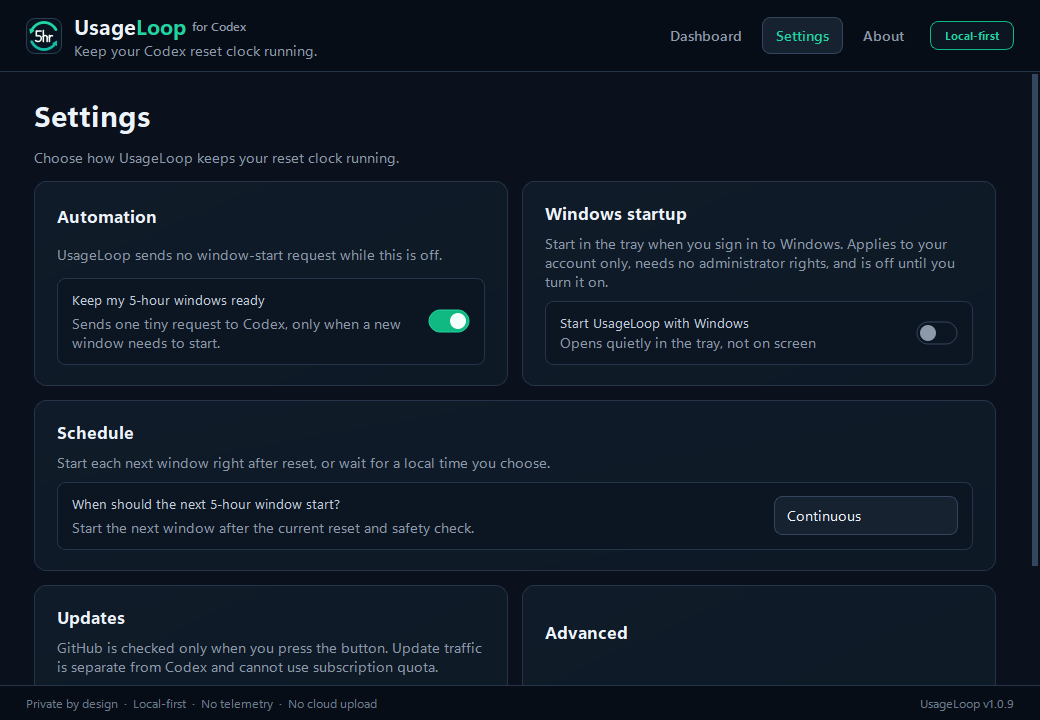
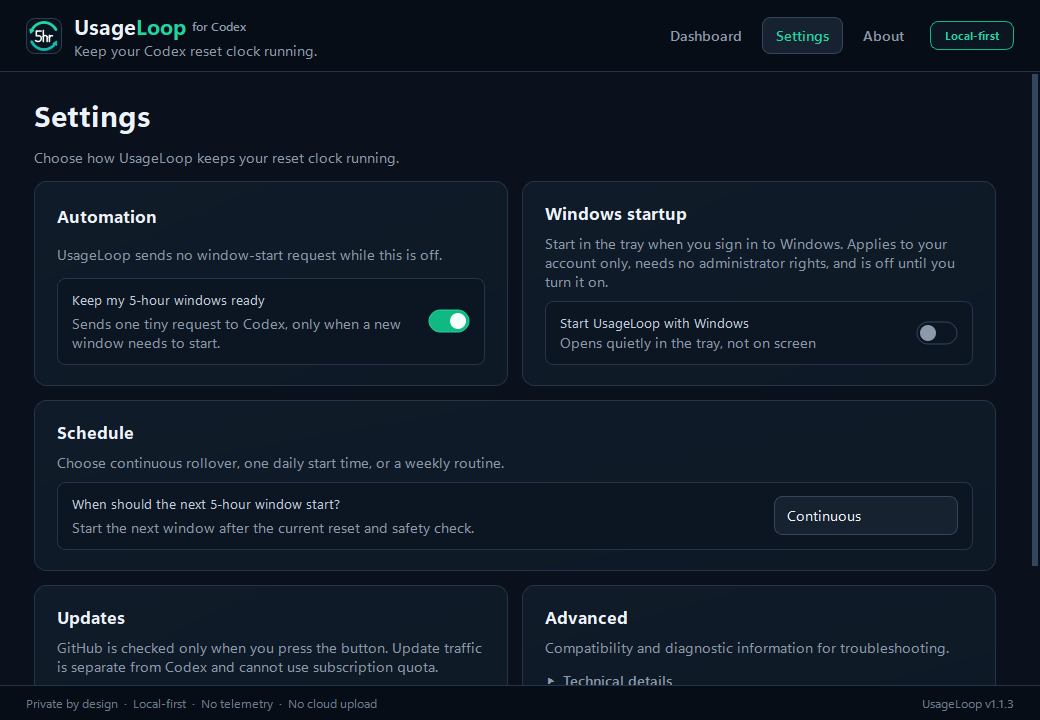
Present the Weekly routine on the public surfaces
The README and site still described only immediate rollover and one daily
start time, three releases after Weekly routine shipped. A stranger had no
way to learn the feature existed before being asked to install an unsigned
app.

Reframes the pitch around planning when the Codex day starts, adds a Weekly
routine section to both surfaces with a real 1.1.3 screenshot of the weekday
and weekend groups, the per-day overrides, and the Next routine card, and
corrects the schedule wording to name all three modes.

Site changes drop the "quota tracker" metadata framing, add the concrete
payoff example that only the README carried, remove a duplicate dashboard
section, and keep Download reachable in the mobile header. Screenshots are
regenerated from the current build through the existing capture script.

Two tests now pin the schedule modes and the site content so this cannot go
stale again.

Changed region(s): [[0.5231, 0.8556, 0.9231, 0.9472], [0.0615, 0.6417, 0.5231, 0.6722], [0.8923, 0.9778, 0.9538, 1.0]]

diff --git a/docs/index.html b/docs/index.html
@@ -3,15 +3,15 @@
 <head>
   <meta charset="utf-8">
   <meta name="viewport" content="width=device-width, initial-scale=1">
-  <title>UsageLoop for Codex | Windows quota tracker</title>
-  <meta name="description" content="UsageLoop is a local-first Windows app that tracks Codex 5-hour and weekly limits and can start the normal next window while you are away.">
+  <title>UsageLoop for Codex | Plan when your Codex day starts</title>
+  <meta name="description" content="UsageLoop is a local-first Windows app that starts your next Codex 5-hour window on a schedule you choose, including separate weekday and weekend times. It does not add quota or bypass limits.">
   <link rel="canonical" href="https://benthompsondev.github.io/usageloop/">
   <meta name="theme-color" content="#08131f">
 
   <meta property="og:type" content="website">
   <meta property="og:site_name" content="UsageLoop">
   <meta property="og:title" content="UsageLoop for Codex">
-  <meta property="og:description" content="Keep your Codex 5-hour reset clock moving while you are away. Local-first for Windows, with no API key or telemetry.">
+  <meta property="og:description" content="Plan when your Codex day starts. Set weekday and weekend first-start times, keep windows rolling, and pause overnight. Local-first for Windows, no API key or telemetry.">
   <meta property="og:url" content="https://benthompsondev.github.io/usageloop/">
   <meta property="og:image" content="https://benthompsondev.github.io/usageloop/screenshots/dashboard-1280x720.png">
   <meta property="og:image:width" content="1280">
@@ -19,7 +19,7 @@
   <meta property="og:image:alt" content="UsageLoop dashboard showing a running Codex 5-hour window, weekly usage, and the next scheduled action">
   <meta name="twitter:card" content="summary_large_image">
   <meta name="twitter:title" content="UsageLoop for Codex">
-  <meta name="twitter:description" content="A local-first Codex quota tracker for Windows. No API key, telemetry, or scraping.">
+  <meta name="twitter:description" content="Plan when your Codex day starts. Weekday and weekend start times, rolling windows, overnight pause. Local-first, no API key or telemetry.">
   <meta name="twitter:image" content="https://benthompsondev.github.io/usageloop/screenshots/dashboard-1280x720.png">
 
   <link rel="icon" href="favicon.ico" sizes="any">
@@ -31,7 +31,7 @@
     "@type": "SoftwareApplication",
     "name": "UsageLoop",
     "alternateName": "UsageLoop for Codex",
-    "description": "A local-first Windows app that tracks Codex 5-hour and weekly limits and can start the normal next window while you are away.",
+    "description": "A local-first Windows app that starts your next Codex 5-hour window on a schedule you choose, including separate weekday and weekend first-start times, with rolling daytime windows and an overnight pause. It does not add quota or bypass limits.",
     "applicationCategory": "UtilitiesApplication",
     "operatingSystem": "Windows",
     "isAccessibleForFree": true,
@@ -57,7 +57,8 @@
       <span><strong>Usage<span>Loop</span></strong> <small>for Codex</small></span>
     </a>
     <nav aria-label="Primary navigation">
-      <a href="#download">Download</a>
+      <a href="#weekly">Weekly routine</a>
+      <a class="nav-primary" href="#download">Download</a>
       <a href="#privacy">Privacy</a>
       <a href="#faq">FAQ</a>
       <a href="https://github.com/benthompsondev/usageloop">GitHub</a>
@@ -67,9 +68,9 @@
   <main id="main">
     <section class="hero" id="top" aria-labelledby="hero-title">
       <div class="hero-copy">
-        <p class="eyebrow">Local-first Codex quota tracker for Windows</p>
-        <h1 id="hero-title">Keep your Codex 5-hour reset clock moving while you’re away.</h1>
-        <p class="lede">UsageLoop shows whether your Codex reset clock is running and can start the normal next window after the current one resets.</p>
+        <p class="eyebrow">Local-first Codex window scheduler for Windows</p>
+        <h1 id="hero-title">Plan when your Codex day starts.</h1>
+        <p class="lede">Your Codex 5-hour window only begins when you actually use Codex. UsageLoop starts the next one on a schedule you choose, with separate weekday and weekend times, so the clock is already running when you sit down.</p>
         <p class="boundary"><strong>It does not add quota or bypass limits.</strong> It starts the normal next window you were going to receive anyway.</p>
         <div class="hero-actions">
           <a class="button primary" href="https://github.com/benthompsondev/usageloop/releases/latest/download/UsageLoop-Setup.exe">Download for Windows</a>
@@ -94,7 +95,8 @@
       </div>
       <div class="prose">
         <p>Your Codex 5-hour window starts when you actually use Codex. If the current window ends while you are away, the next reset clock normally waits until you come back and use Codex again.</p>
-        <p>UsageLoop can start that next clock before you return. The quota does not change. The clock simply starts earlier, so more of the wait can happen while you are away.</p>
+        <p>Say your window ends at 1:00 AM and UsageLoop starts the next one at 4:00 AM. When you sit down at 7:00 AM that clock has already run for three hours, so your next full reset arrives around <strong>9:00 AM instead of noon</strong>.</p>
+        <p>The quota does not change. The clock simply starts earlier, so more of the waiting happens while you are asleep instead of while you are trying to work.</p>
       </div>
     </section>
 
@@ -106,14 +108,31 @@
       <ul class="plain-list">
         <li>Shows the current 5-hour countdown, reset time, and last-known usage.</li>
         <li>Shows weekly usage and blocks automatic starts when the weekly limit is nearly exhausted.</li>
-        <li>Starts the normal next window after reset or at a local time you choose.</li>
+        <li>Starts the next window one of three ways: <strong>as soon as the current one resets</strong>, <strong>at a set time each day</strong>, or on a <strong>weekly routine</strong> with its own time per day.</li>
         <li>Catches up once after sleep, restart, or your next Windows sign-in.</li>
       </ul>
     </section>
 
+    <section class="section product-view" id="weekly" aria-labelledby="weekly-title">
+      <div class="section-heading">
+        <p class="section-number">03</p>
+        <h2 id="weekly-title">Set a routine that matches your week</h2>
+        <p>Most people do not start work at the same time seven days a week. Give weekdays one first-start time and weekends another, then override any single day if you want to.</p>
+      </div>
+      <a href="screenshots/settings-weekly-expanded.png" aria-label="Open the full UsageLoop Weekly routine screenshot">
+        <img class="product-shot" src="screenshots/settings-weekly-expanded.png" width="1366" height="900" loading="lazy" alt="UsageLoop Weekly routine settings with separate weekday and weekend first-start times, per-day overrides for all seven days, and a Next routine card showing first start, next reset, and overnight pause">
+      </a>
+      <div class="weekly-points">
+        <p><strong>Weekdays and weekends.</strong><br>Set a time, press Apply Mon–Fri or Apply Sat–Sun, and the button confirms with “Applied”.</p>
+        <p><strong>Custom days when you need them.</strong><br>Open “Customize individual days” to give any day its own first-start time.</p>
+        <p><strong>Rolling days, quiet nights.</strong><br>After the first start, windows keep rolling as each one resets, then pause overnight so tomorrow begins on the time you chose.</p>
+        <p><strong>Next routine, in plain numbers.</strong><br>The card shows the upcoming first start, the next reset five hours later, and when the overnight pause begins.</p>
+      </div>
+    </section>
+
     <section class="section boundary-section" aria-labelledby="not-title">
       <div>
-        <p class="section-number">03</p>
+        <p class="section-number">04</p>
         <h2 id="not-title">What it does not do</h2>
       </div>
       <div class="boundary-grid">
@@ -126,7 +145,7 @@
 
     <section class="section download" id="download" aria-labelledby="download-title">
       <div>
-        <p class="section-number">04</p>
+        <p class="section-number">05</p>
         <h2 id="download-title">Download for Windows</h2>
         <p>UsageLoop needs an x64-compatible Windows PC and the Codex desktop app or CLI already installed and signed in.</p>
       </div>
@@ -140,16 +159,6 @@
       </div>
     </section>
 
-    <section class="section product-view" aria-labelledby="view-title">
-      <div class="section-heading">
-        <p class="section-number">05</p>
-        <h2 id="view-title">One quiet view of the current window</h2>
-        <p>The dashboard keeps the current clock, weekly safety state, schedule, and last action in one place. The countdown moves locally instead of polling Codex to look live.</p>
-      </div>
-      <a href="screenshots/dashboard-1280x720.png" aria-label="Open the full UsageLoop dashboard screenshot">
-        <img class="product-shot" src="screenshots/dashboard-1280x720.png" width="1280" height="720" loading="lazy" alt="UsageLoop dashboard showing an active Codex window and automation scheduled after the reset">
-      </a>
-    </section>
 
     <section class="section split" id="privacy" aria-labelledby="privacy-title">
       <div>

diff --git a/docs/styles.css b/docs/styles.css
@@ -381,6 +381,24 @@ h2 {
   box-shadow: 0 24px 70px rgba(0, 0, 0, 0.3);
 }
 
+.weekly-points {
+  display: grid;
+  grid-template-columns: repeat(2, minmax(0, 1fr));
+  gap: 1.5rem 2.5rem;
+  margin-top: 2.75rem;
+}
+
+.weekly-points p {
+  margin: 0;
+  padding-top: 1.1rem;
+  border-top: 1px solid var(--border);
+  color: var(--text-muted);
+}
+
+.weekly-points strong {
+  color: var(--text);
+}
+
 .steps {
   margin: 0;
   padding: 0;
@@ -520,7 +538,11 @@ footer p {
     min-height: 68px;
   }
 
-  nav a:not(:last-child) {
+  nav a:not(:last-child):not(.nav-primary) {
+    display: none;
+  }
+
+  .brand small {
     display: none;
   }
 
@@ -539,6 +561,12 @@ footer p {
 
   .boundary-grid {
     grid-template-columns: 1fr;
+  }
+
+  .weekly-points {
+    grid-template-columns: 1fr;
+    gap: 1.25rem;
+    margin-top: 2rem;
   }
 
   .download-links {

diff --git a/tests/test_product.py b/tests/test_product.py
@@ -187,11 +187,46 @@ class ProductMetadataTests(unittest.TestCase):
             "instead of noon."
         )
 
-        self.assertIn("Keep your Codex 5-hour reset clock moving while you’re away.", readme)
+        self.assertIn("**Plan when your Codex day starts.**", readme)
         self.assertIn(example, readme.replace("\n", " "))
         self.assertIn("UsageLoop does not add quota or bypass limits", readme)
         self.assertEqual(1, readme.count("docs/screenshots/dashboard.png"))
         self.assertIn("Consider starring the repository", readme)
+
+    def test_readme_documents_every_schedule_mode_the_app_offers(self) -> None:
+        """The README described only two modes for three releases after Weekly shipped."""
+        root = Path(__file__).resolve().parents[1]
+        readme = (root / "README.md").read_text(encoding="utf-8")
+        flat = readme.replace("\n", " ")
+
+        self.assertIn("three local schedule choices", flat)
+        for mode in (
+            "As soon as the current one resets",
+            "At a set time each day",
+            "Weekly routine",
+        ):
+            self.assertIn(mode, flat)
+        self.assertIn("## Set your weekly routine", readme)
+        self.assertEqual(
+            1, readme.count("docs/screenshots/settings-weekly-expanded.png")
+        )
+        for weekly_term in ("Apply Mon", "Customize individual days", "Next routine"):
+            self.assertIn(weekly_term, flat)
+
+    def test_pages_site_reflects_the_current_product(self) -> None:
+        """The public site framed UsageLoop as a quota tracker and omitted Weekly."""
+        root = Path(__file__).resolve().parents[1]
+        index = (root / "docs" / "index.html").read_text(encoding="utf-8")
+
+        self.assertNotIn("quota tracker", index)
+        self.assertIn("Plan when your Codex day starts.", index)
+        self.assertIn('id="weekly"', index)
+        self.assertIn("screenshots/settings-weekly-expanded.png", index)
+        self.assertIn("screenshots/dashboard-1280x720.png", index)
+        for weekly_term in ("Apply Mon", "Customize individual days", "Next routine"):
+            self.assertIn(weekly_term, index)
+        self.assertIn("does not add quota or bypass limits", index)
+        self.assertIn("The installer is currently unsigned.", index)
 
     def test_release_checklist_forbids_reusing_an_installed_candidate_version(self) -> None:
         root = Path(__file__).resolve().parents[1]

diff --git a/README.md b/README.md
@@ -2,13 +2,20 @@
 
 [![Latest release](https://img.shields.io/github/v/release/benthompsondev/usageloop?sort=semver)](https://github.com/benthompsondev/usageloop/releases/latest) [![Windows verification](https://github.com/benthompsondev/usageloop/actions/workflows/verify.yml/badge.svg)](https://github.com/benthompsondev/usageloop/actions/workflows/verify.yml) [![License: MIT](https://img.shields.io/badge/license-MIT-blue.svg)](LICENSE)
 
-**Keep your Codex 5-hour reset clock moving while you’re away.**
+**Plan when your Codex day starts.**
 
-UsageLoop is a local-first Windows app, with a Linux beta available for testing.
-It shows whether your Codex reset clock is running and can start the normal next
-window while you’re away.
+Your Codex 5-hour window only begins when you actually use Codex. If a window
+ends while you are asleep, the next reset clock sits idle until you come back,
+so the first stretch of your session is spent waiting instead of working.
+
+UsageLoop starts that next window for you. Pick one time, separate weekday and
+weekend times, or a different time for every day of the week. It keeps windows
+rolling through the day, pauses overnight, and shows you when the next one
+begins.
+
 UsageLoop does not add quota or bypass limits. It starts the normal next window
-you were going to receive anyway.
+you were going to receive anyway, earlier. It is a local-first Windows app, with
+a Linux beta available for testing.
 
 **[Download for Windows — Stable](https://github.com/benthompsondev/usageloop/releases/download/v1.1.3/UsageLoop-Setup.exe)**
 · **[Download for Linux — Beta](https://github.com/benthompsondev/usageloop/releases/tag/v1.1.0-beta.1)**
@@ -23,10 +30,36 @@ you were going to receive anyway.
 - Never reads Codex credentials, prompts, responses, or conversations
 - Automation and Windows startup are off by default
 
-[Website](https://benthompsondev.github.io/usageloop/) · [Install](#install) ·
+[Website](https://benthompsondev.github.io/usageloop/) ·
+[Set your weekly routine](#set-your-weekly-routine) · [Install](#install) ·
 [See what it does](#what-usageloop-does) ·
 [Review privacy and trust](#privacy-and-trust) · [Understand how it works](#how-it-works)
 · [Get help](#get-help-and-share-feedback)
+
+## Set your weekly routine
+
+Most people do not want the same start time seven days a week. UsageLoop lets
+you set a first-start time for weekdays and another for weekends, then override
+any individual day if you want to.
+
+![UsageLoop Weekly routine settings showing separate weekday and weekend first-start times, per-day overrides, and the Next routine card with first start, next reset, and overnight pause](docs/screenshots/settings-weekly-expanded.png)
+
+- **Weekdays** and **Weekends** each hold one first-start time. Set the time,
+  press **Apply Mon–Fri** or **Apply Sat–Sun**, and the button confirms with
+  **Applied**.
+- **Customize individual days** opens a row per day when you want Wednesday to
+  differ from the rest of the week.
+- **Next routine** tells you what is actually going to happen: the **first
+  start**, the **next reset** five hours later, and when the **overnight pause**
+  begins.
+
+After the first start of the day, UsageLoop keeps windows rolling as each one
+resets. It stops starting new windows in the evening so the next morning begins
+on the time you chose rather than drifting later each day.
+
+If you want something simpler, the other two choices are still there:
+**As soon as the current one resets** for continuous rollover, and
+**At a set time each day** for a single daily start.
 
 ## Install
 
@@ -104,17 +137,21 @@ The dashboard shows:
 - the last-known weekly usage and safety state;
 - the next scheduled action and the last automatic action UsageLoop took.
 
-Automation has two local schedule choices:
+Automation has three local schedule choices:
 
 - **As soon as the current one resets** starts the next window after the reset
-  and safety buffer.
+  and safety buffer, so windows roll continuously.
 - **At a set time each day** waits until your chosen local time after a window
   ends.
+- **Weekly routine** uses a first-start time per day, with quick weekday and
+  weekend groups and optional per-day overrides. Windows keep rolling after the
+  first start and pause overnight so the next day begins on schedule. See
+  [Set your weekly routine](#set-your-weekly-routine).
 
-If the PC is asleep at the selected time, UsageLoop catches up once after wake
-or restart. If a Codex window is still active, it waits for the next day's
-selected time rather than starting early. Daylight-saving changes use the
-Windows local clock.
+All three run on your PC's local clock. If the PC is asleep at the selected
+time, UsageLoop catches up once after wake or restart. If a Codex window is
+still active, it waits for the next scheduled time rather than starting early.
+Daylight-saving changes use the Windows local clock.
 
 The countdown moves locally. It does not poll Codex to make the UI look live.
 Usage percentages are snapshots from the last real observation.
@@ -127,8 +164,11 @@ weekly snapshots. It never selects a model or starts a Codex turn.
 
 1. Open UsageLoop and confirm Codex is detected.
 2. Review the cached five-hour and weekly state.
-3. In Settings, choose **As soon as the current one resets** or **At a set time
-   each day**, then turn on **Keep my 5-hour windows ready**.
+3. In Settings, choose **As soon as the current one resets**, **At a set time
+   each day**, or **Weekly routine**, then turn on **Keep my 5-hour windows
+   ready**. Weekly routine gives each day its own first-start time: set the
+   weekday and weekend times, then check the **Next routine** card before you
+   leave.
 4. On a true first run, choose **Start my first window now**. This explicit
    action uses the same evidence and weekly checks as an automatic start.
 5. Leave UsageLoop in the tray. Automation and Windows startup stay off until
